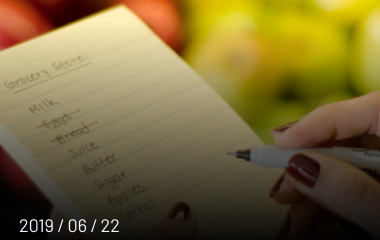
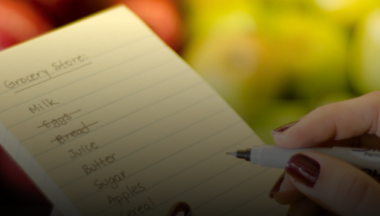
Update on content and css

diff --git a/css/main.css b/css/main.css
@@ -570,8 +570,8 @@ h4 {
 }
 
 .snt-blog-header-md {
-	height: 240px;
-	padding-top: 18%;
+	height: 400px;
+    padding-top: 62%;
 }
 
 .snt-blog-header-md h2 {
@@ -582,7 +582,7 @@ h4 {
 
 .snt-blog-header-ph-1 {
 	background: url(../imgs/blog-bg-md-placeholder-1.png) top center no-repeat black;
-	background-size: cover;
+	background-size: 70rem;
 }
 
 .snt-blog-header-ph-2 {

diff --git a/content.php b/content.php
@@ -29,7 +29,7 @@
 
 		<div class="col-md-4 " placeholder="failure">
 			<div class="row">
-				<div class="snt-blog-header-md snt-blog-header-ph-2">
+				<div class="snt-blog-header-md snt-blog-header-ph-2" style="margin-top: 0.1rem;">
 					<h2><a href="<?php echo esc_url(get_post_permalink($posts[1])) ?>"><?php echo apply_filters( 'the_title', $posts[1]->post_title);?></a></h2>
 			<span class="snt-blog-date"><?php echo date('Y / m / d', strtotime($posts[1]->post_date_gmt)); ?></span>
 				</div>
@@ -54,7 +54,7 @@
 
 		<div class="row">
 			<div class="col-md-12">
-				<button class="snt-btn btn center-block" onclick="window.location.href='/sintezisdemo/#blog'">VIEW MORE ARTICLES</button>
+				<button class="snt-btn btn center-block" onclick="window.location.href='/#blog'">VIEW MORE ARTICLES</button>
 			</div>
 		</div>
 		
